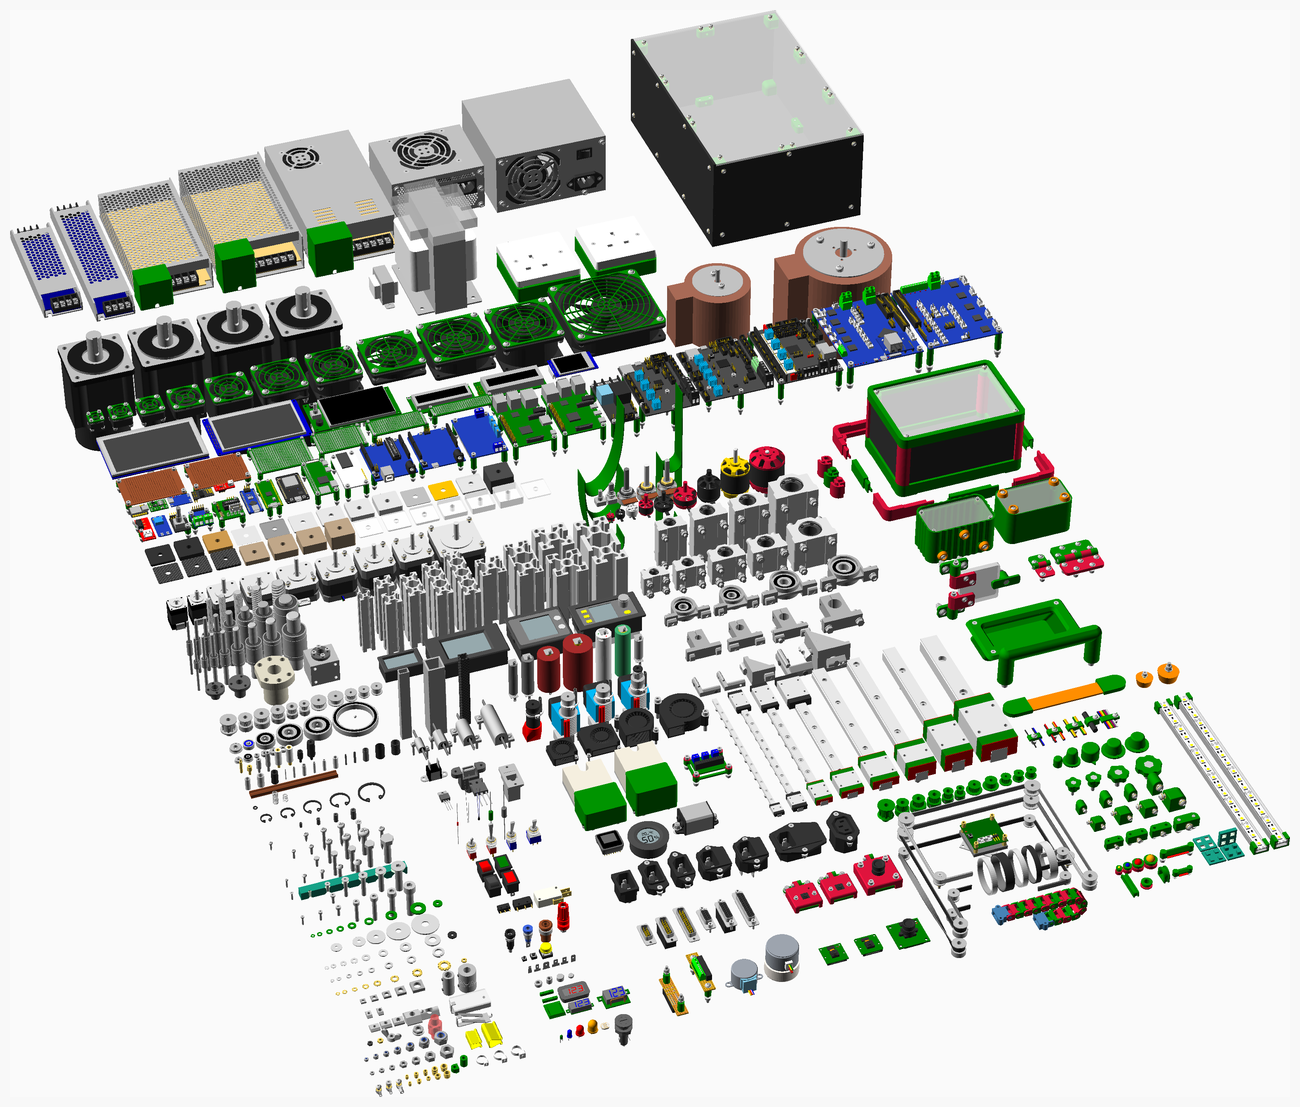
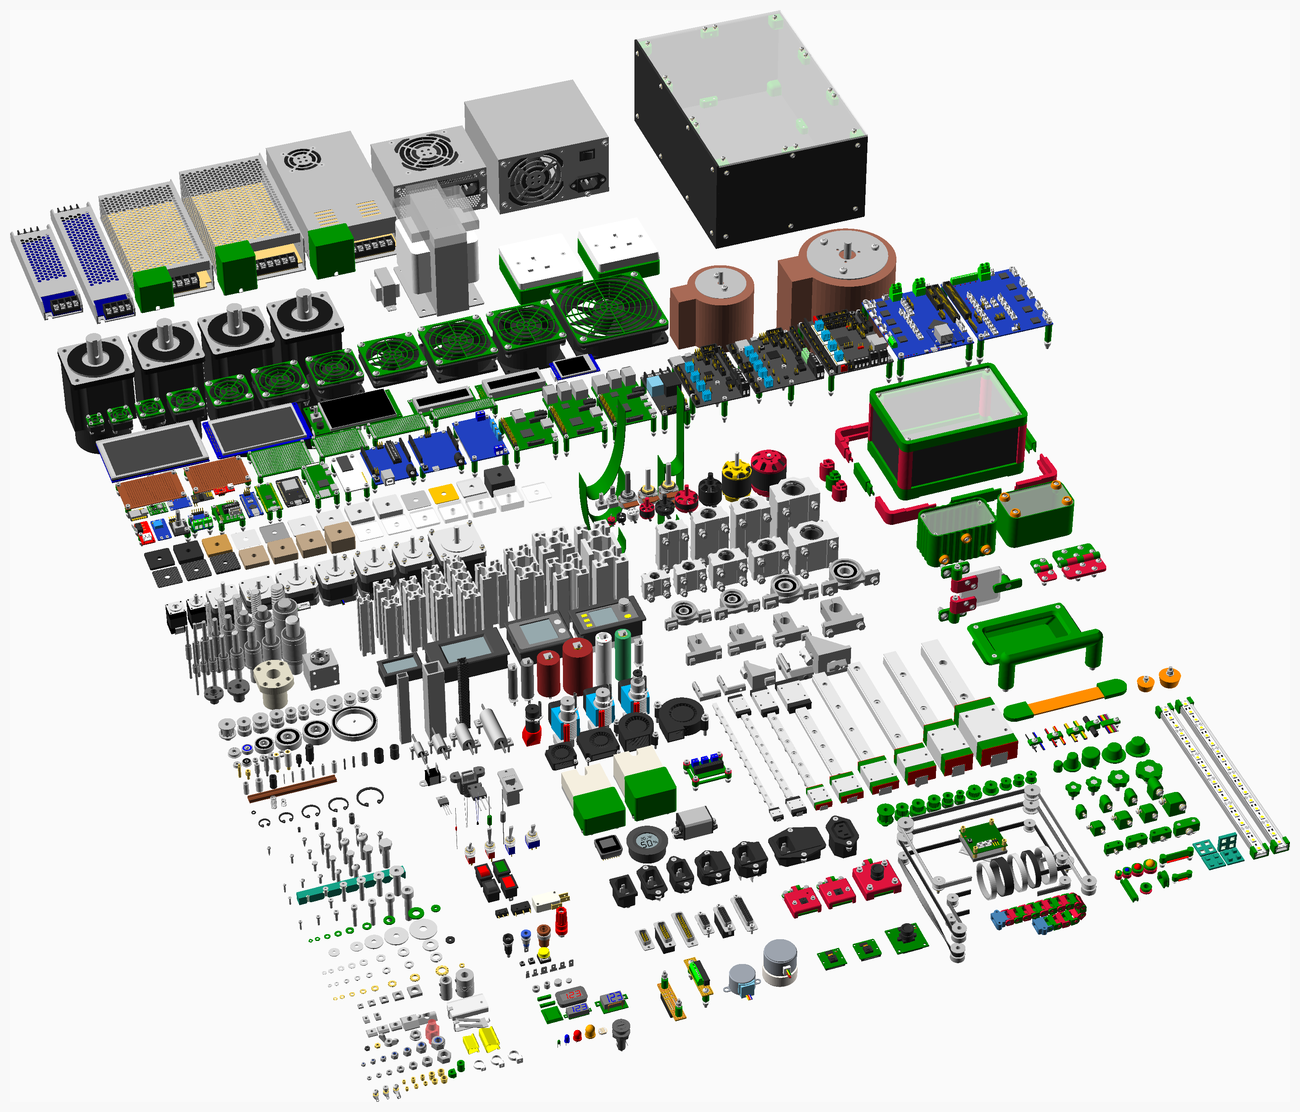
Updated images and readme.

Changed region(s): [[0.0, 0.0307, 1.0, 1.0], [0.6154, 0.0307, 0.6462, 0.0921], [0.5846, 0.0, 0.6154, 0.0307]]

diff --git a/readme.md b/readme.md
@@ -2616,12 +2616,12 @@ PCBs and perfboard with optional components. The shape can be a rectangle with o
 |   1 | `pcb(MP1584EN)` |  MP1584EN 3A buck converter |
 |   1 | `pcb(MT3608)` |  MT3608 boost converter module |
 |   1 | `pcb(Melzi)` |  Melzi electronics - not shown |
-|   4 |  |  Micro SD card |
+|   5 |  |  Micro SD card |
 |   1 |  |  Micro SD card - not shown |
 |   1 | `molex_254(2)` |  Molex KK header 2 way - not shown |
 |   1 | `molex_254(3)` |  Molex KK header 3 way - not shown |
 |  20 | `nut(M2_nut, nyloc = true)` |  Nut M2 x 1.6mm nyloc |
-|  30 | `nut(M2p5_nut, nyloc = true)` |  Nut M2.5 x 2.2mm nyloc |
+|  34 | `nut(M2p5_nut, nyloc = true)` |  Nut M2.5 x 2.2mm nyloc |
 |  36 | `nut(M3_nut, nyloc = true)` |  Nut M3 x 2.4mm nyloc |
 |   8 | `nut(M4_nut, nyloc = true)` |  Nut M4 x 3.2mm nyloc |
 |   1 | `pcb(PI_IO)` |  PI_IO V2 - not shown |
@@ -2635,6 +2635,7 @@ PCBs and perfboard with optional components. The shape can be a rectangle with o
 |   1 | `pin_socket(2p54header, 13, 2, right_angle = true)` |  Pin socket 13 x 2 right_angle - not shown |
 |   1 | `pcb(RAMPSEndstop)` |  RAMPS Endstop Switch |
 |   1 | `pcb(RPI3)` |  Raspberry Pi 3 |
+|   1 | `pcb(RPI3A)` |  Raspberry Pi 3 A+ |
 |   1 | `pcb(RPI4)` |  Raspberry Pi 4 |
 |   1 | `pcb(RPI_Pico)` |  Raspberry Pi Pico |
 |   1 | `pcb(RPI0)` |  Raspberry Pi Zero |
@@ -2642,15 +2643,14 @@ PCBs and perfboard with optional components. The shape can be a rectangle with o
 |  12 | `screw(M2_cap_screw, 20)` |  Screw M2 cap x 20mm |
 |   2 | `screw(M2p5_cap_screw, 16)` |  Screw M2.5 cap x 16mm |
 |   8 | `screw(M2p5_cap_screw, 25)` |  Screw M2.5 cap x 25mm |
-|   8 | `screw(M2p5_cap_screw, 30)` |  Screw M2.5 cap x 30mm |
+|  12 | `screw(M2p5_cap_screw, 30)` |  Screw M2.5 cap x 30mm |
 |   4 | `screw(M2p5_pan_screw, 20)` |  Screw M2.5 pan x 20mm |
 |   8 | `screw(M2p5_pan_screw, 25)` |  Screw M2.5 pan x 25mm |
 |   8 | `screw(M3_cap_screw, 16)` |  Screw M3 cap x 16mm |
 |   6 | `screw(M3_cap_screw, 20)` |  Screw M3 cap x 20mm |
 |   8 | `screw(M3_cap_screw, 30)` |  Screw M3 cap x 30mm |
 |  14 | `screw(M3_cap_screw, 35)` |  Screw M3 cap x 35mm |
-|   4 | `screw(M4_cap_screw, 35)` |  Screw M4 cap x 35mm |
-|   4 | `screw(M4_cap_screw, 40)` |  Screw M4 cap x 40mm |
+|   8 | `screw(M4_cap_screw, 40)` |  Screw M4 cap x 40mm |
 |   1 | `pcb(XIAO)` |  Seeeduino XIAO |
 |   1 | `pcb(TP4056)` |  TP4056 Li-lon Battery charger module |
 |   3 | `terminal_35(2)` |  Terminal block 2 way 3.5mm - not shown |
@@ -2658,7 +2658,7 @@ PCBs and perfboard with optional components. The shape can be a rectangle with o
 |   1 |  |  USB A to Mini B lead - not shown |
 |   1 | `pcb(WD2002SJ)` |  WD2002SJ Buck Boost DC-DC converter |
 |  20 | `washer(M2_washer)` |  Washer  M2 x 5mm x 0.3mm |
-|  30 | `washer(M2p5_washer)` |  Washer  M2.5 x 5.9mm x 0.5mm |
+|  34 | `washer(M2p5_washer)` |  Washer  M2.5 x 5.9mm x 0.5mm |
 |  36 | `washer(M3_washer)` |  Washer  M3 x 7mm x 0.5mm |
 |   8 | `washer(M4_washer)` |  Washer  M4 x 9mm x 0.8mm |
 |   1 | `pcb(ZC_A0591)` |  ZC-A0591 ULN2003 driver PCB |
@@ -2677,19 +2677,20 @@ PCBs and perfboard with optional components. The shape can be a rectangle with o
 |   4 | pcb_spacer25160_2.stl |
 |   4 | pcb_spacer25180.stl |
 |   4 | pcb_spacer25190.stl |
+|   4 | pcb_spacer25200.stl |
 |   2 | pcb_spacer2550.stl |
 |   4 | pcb_spacer2590.stl |
 |   4 | pcb_spacer30170.stl |
-|   4 | pcb_spacer30200.stl |
-|   5 | pcb_spacer30210.stl |
+|   4 | pcb_spacer30210.stl |
 |   5 | pcb_spacer30220.stl |
-|   4 | pcb_spacer30230.stl |
+|   5 | pcb_spacer30230.stl |
+|   4 | pcb_spacer30240.stl |
 |   4 | pcb_spacer3050.stl |
 |   4 | pcb_spacer3060.stl |
 |   2 | pcb_spacer3070.stl |
 |   4 | pcb_spacer3080.stl |
-|   4 | pcb_spacer40240.stl |
 |   4 | pcb_spacer40250.stl |
+|   4 | pcb_spacer40260.stl |
 
 
 <a href="#top">Top</a>
